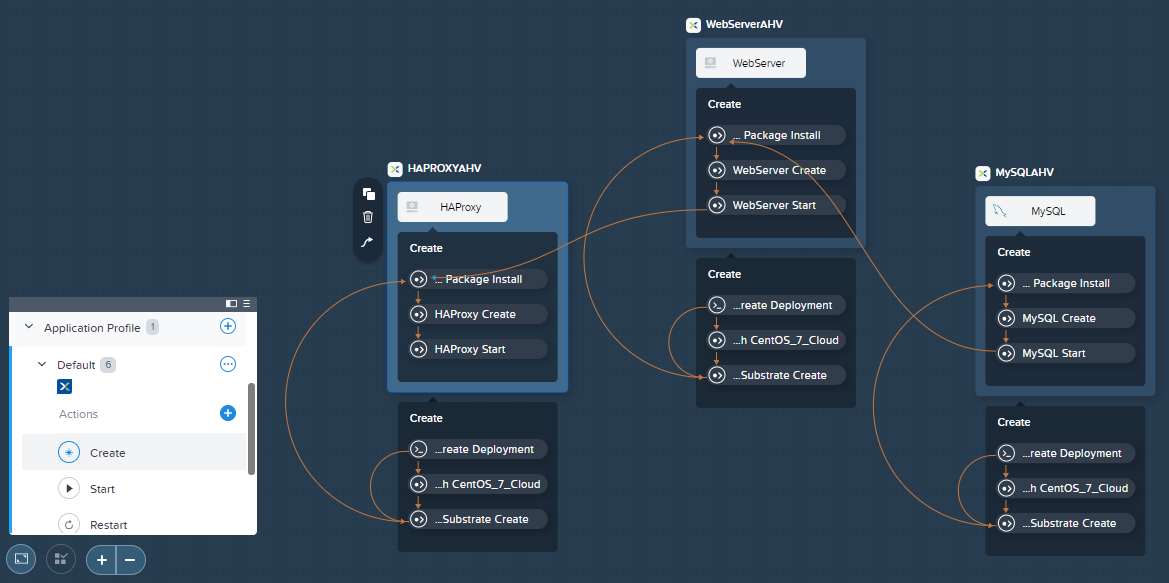
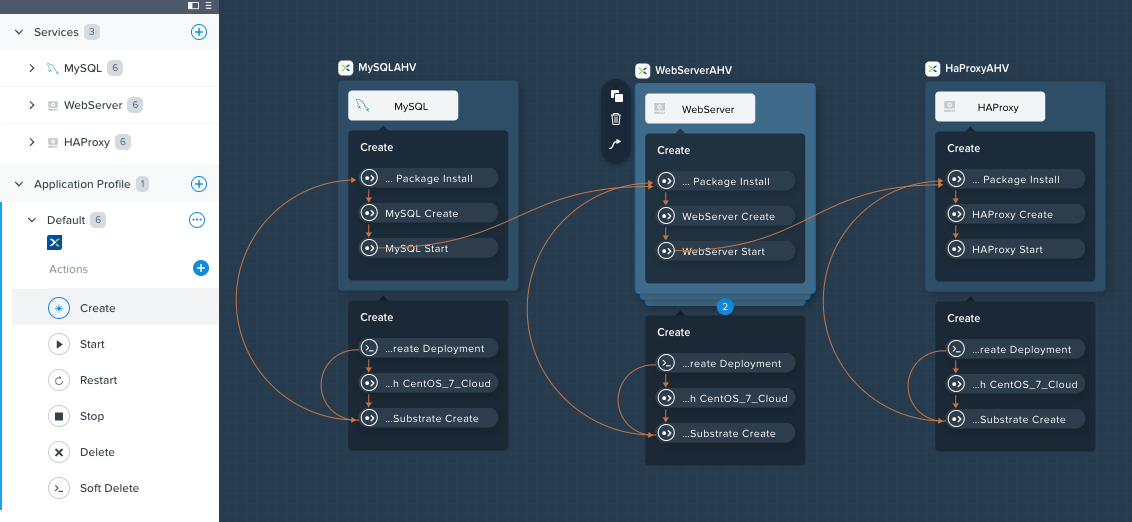
Improved dependency images for Calm_linux lab

diff --git a/calm_linux/calm_linux.rst b/calm_linux/calm_linux.rst
@@ -472,7 +472,7 @@ To take advantage of a scale out web tier, your application needs to be able to 
 #. Select the new service and fill out the following **VM** fields in the **Configuration Panel**:
 
    - **Service Name** - HAProxy
-   - **Name** - HAPROXYAHV
+   - **Name** - HAProxyAHV
    - **Cloud** - Nutanix
    - **OS** - Linux
    - **VM Name** - @@{User_initials}@@-HAProxy-@@{calm_array_index}@@
@@ -505,7 +505,7 @@ To take advantage of a scale out web tier, your application needs to be able to 
 
 #. Specify a **Package Name** and click **Configure install**.
 
-   - **Package Name** - HAPROXY_PACKAGE
+   - **Package Name** - HAProxy_PACKAGE
 
 #. Select **+ Task**, and fill out the following fields in the **Configuration Panel**:
 
